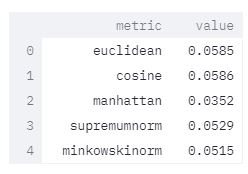
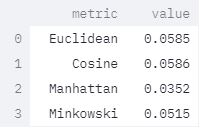
ende result

diff --git a/test_stramlit.py b/test_stramlit.py
@@ -25,7 +25,7 @@ def make_pictur_st(n_clusters, labels, data, reduction_method, metric, dataset_n
     ax2.title.set_text('Real Clusters')
 
     return fig
-    
+
 def change_dataset(name, metric):
     index_data = {'penguins': 0,
                   'winequality': 3,
@@ -36,7 +36,7 @@ def change_dataset(name, metric):
     dataset = prepare_the_dataset(df[index_data], dataset_name[index_data], categorical_variables)
     labels = make_the_clusters(n_clusters,dataset['X'],None,metric)
     metric_list_result = []
-    for i in metric_list:
+    for i in metric_list_web:
         dataset_temp = prepare_the_dataset(df[index_data], dataset_name[index_data], categorical_variables)
         labels_temp = make_the_clusters(n_clusters,dataset['X'],None,i)
         metric_list_result.append(metrics.adjusted_rand_score(labels_temp, dataset_temp['y']))
@@ -72,7 +72,7 @@ st.write(""" # Quality of Clustering
 
 # multiselect_datset = st.multiselect('Welche Datasets select:', dataset_name)
 df_evaluation = pd.DataFrame()
-df_evaluation['metric'] = metric_list
+df_evaluation['metric'] = ["Euclidean", "Cosine", "Manhattan", "Minkowski"]
 df_evaluation['value'] = tem_dataset[1]
 st.write(df_evaluation)
 
